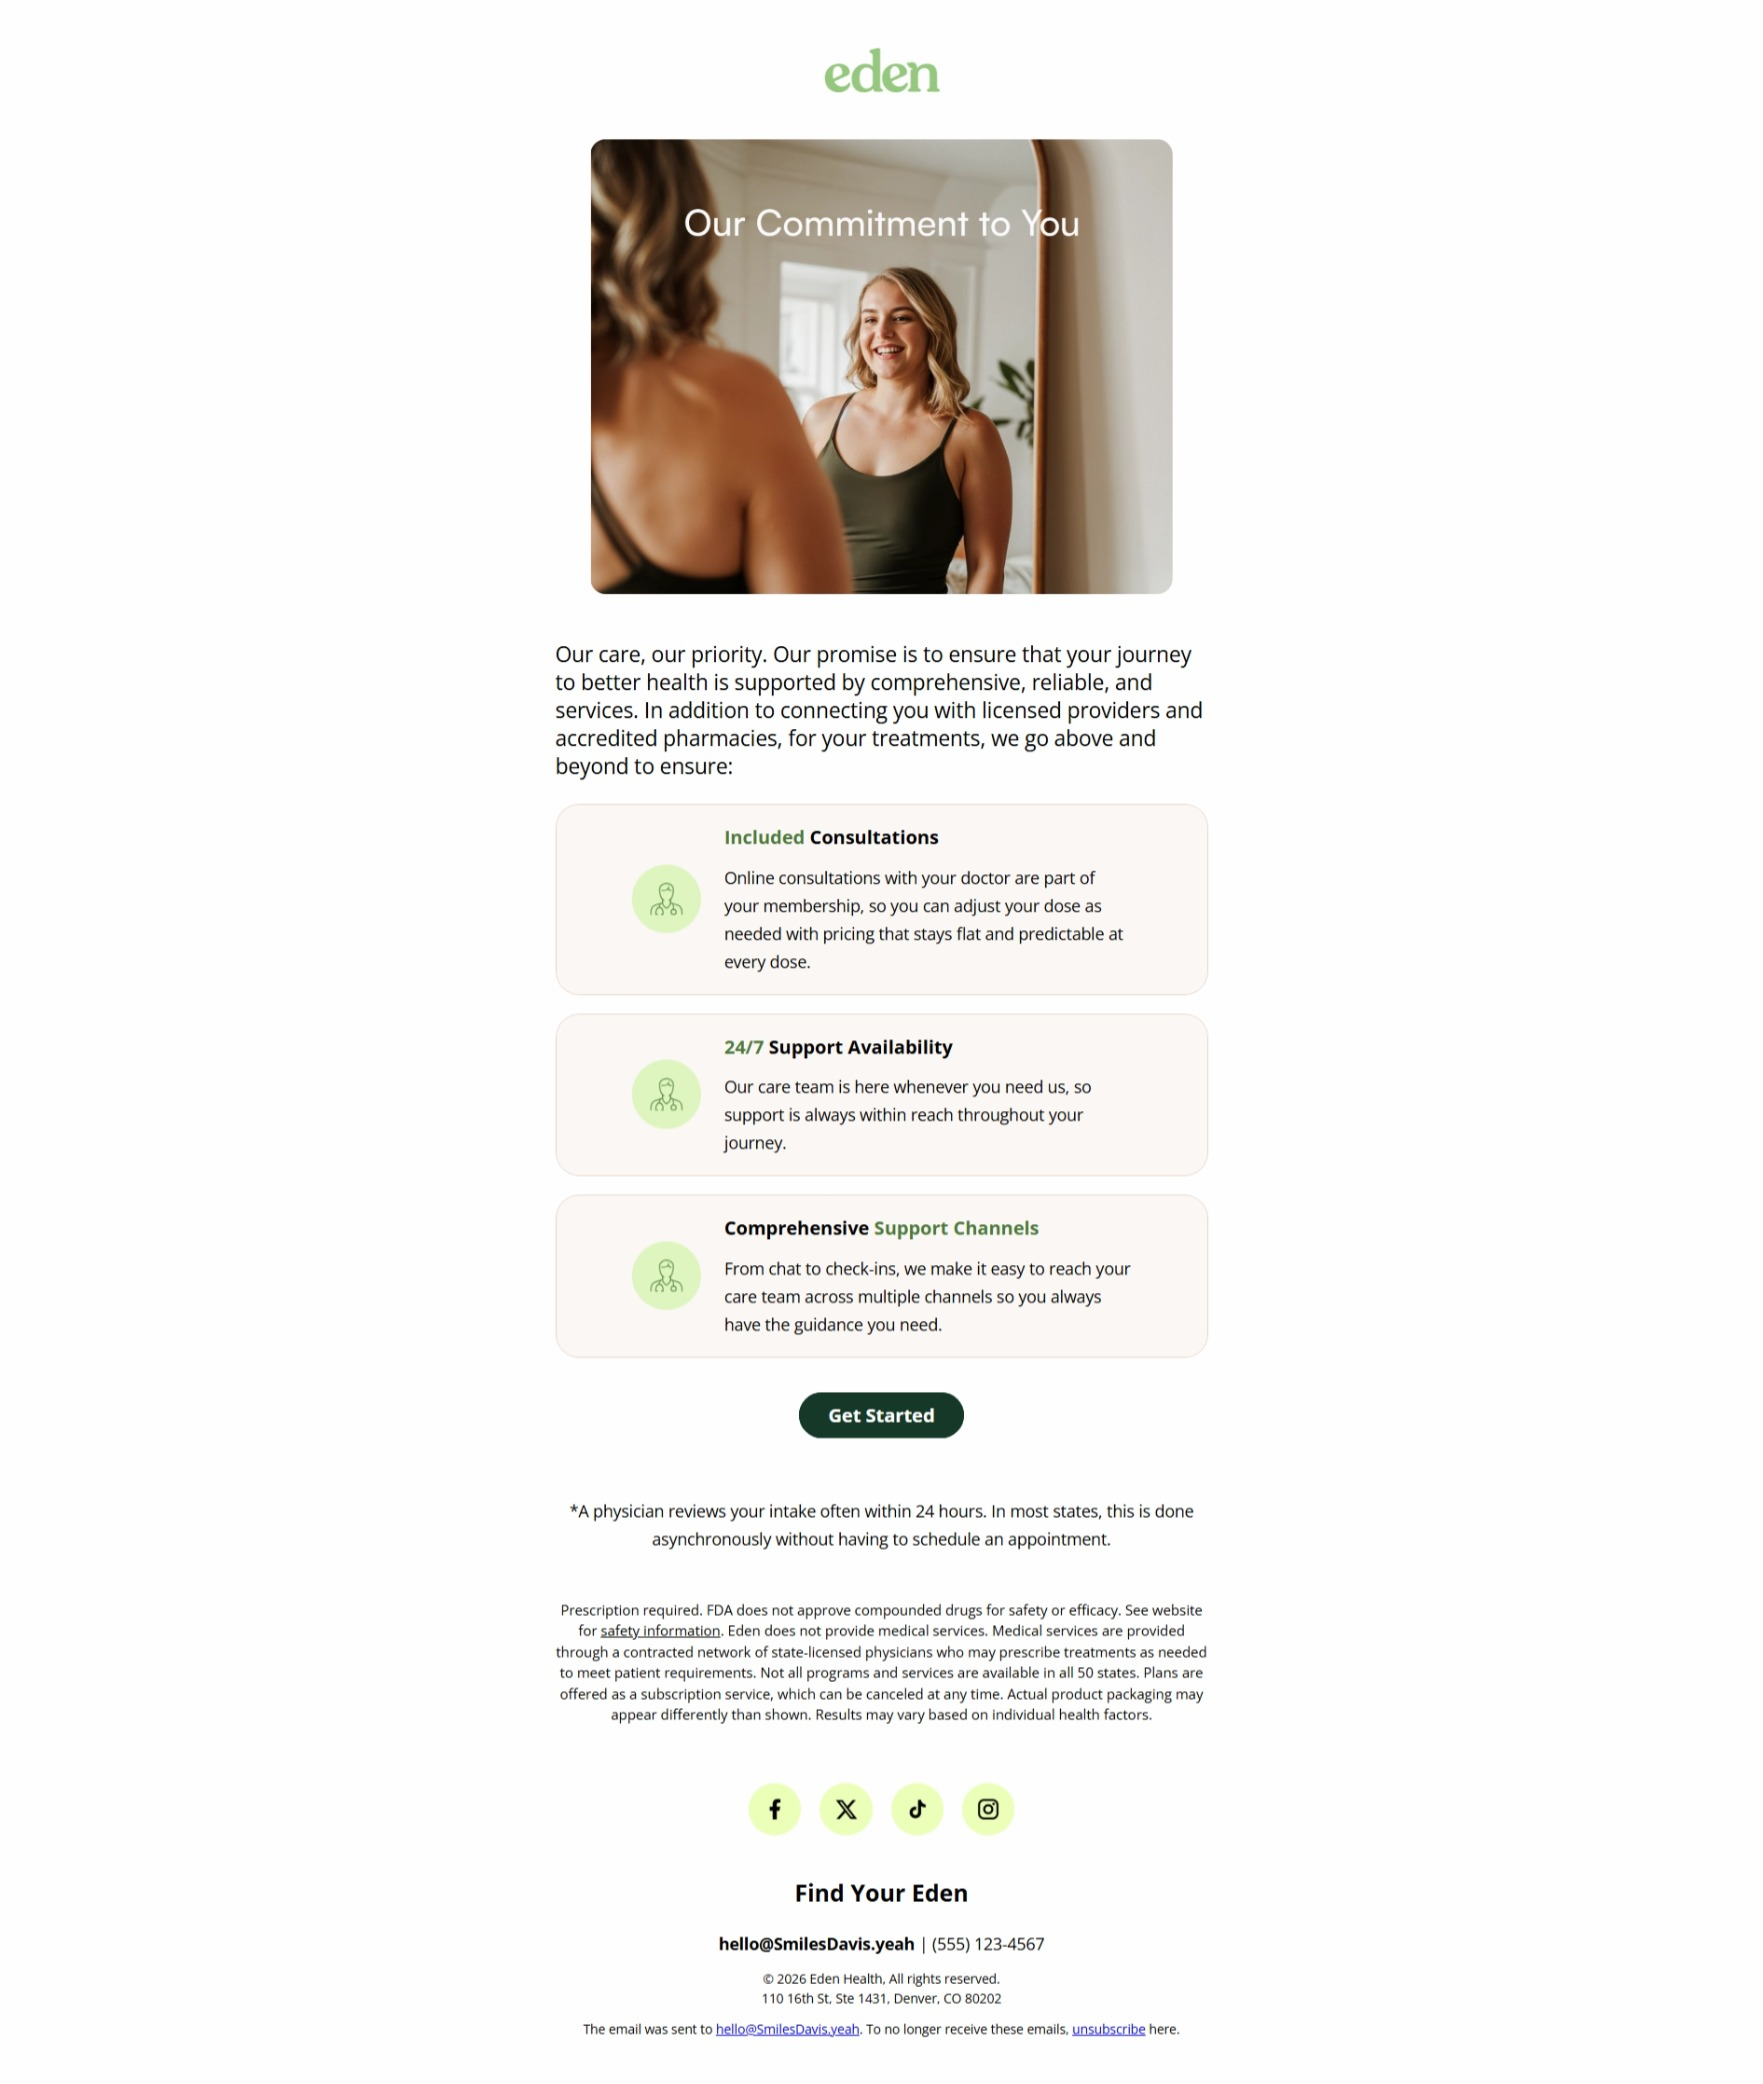
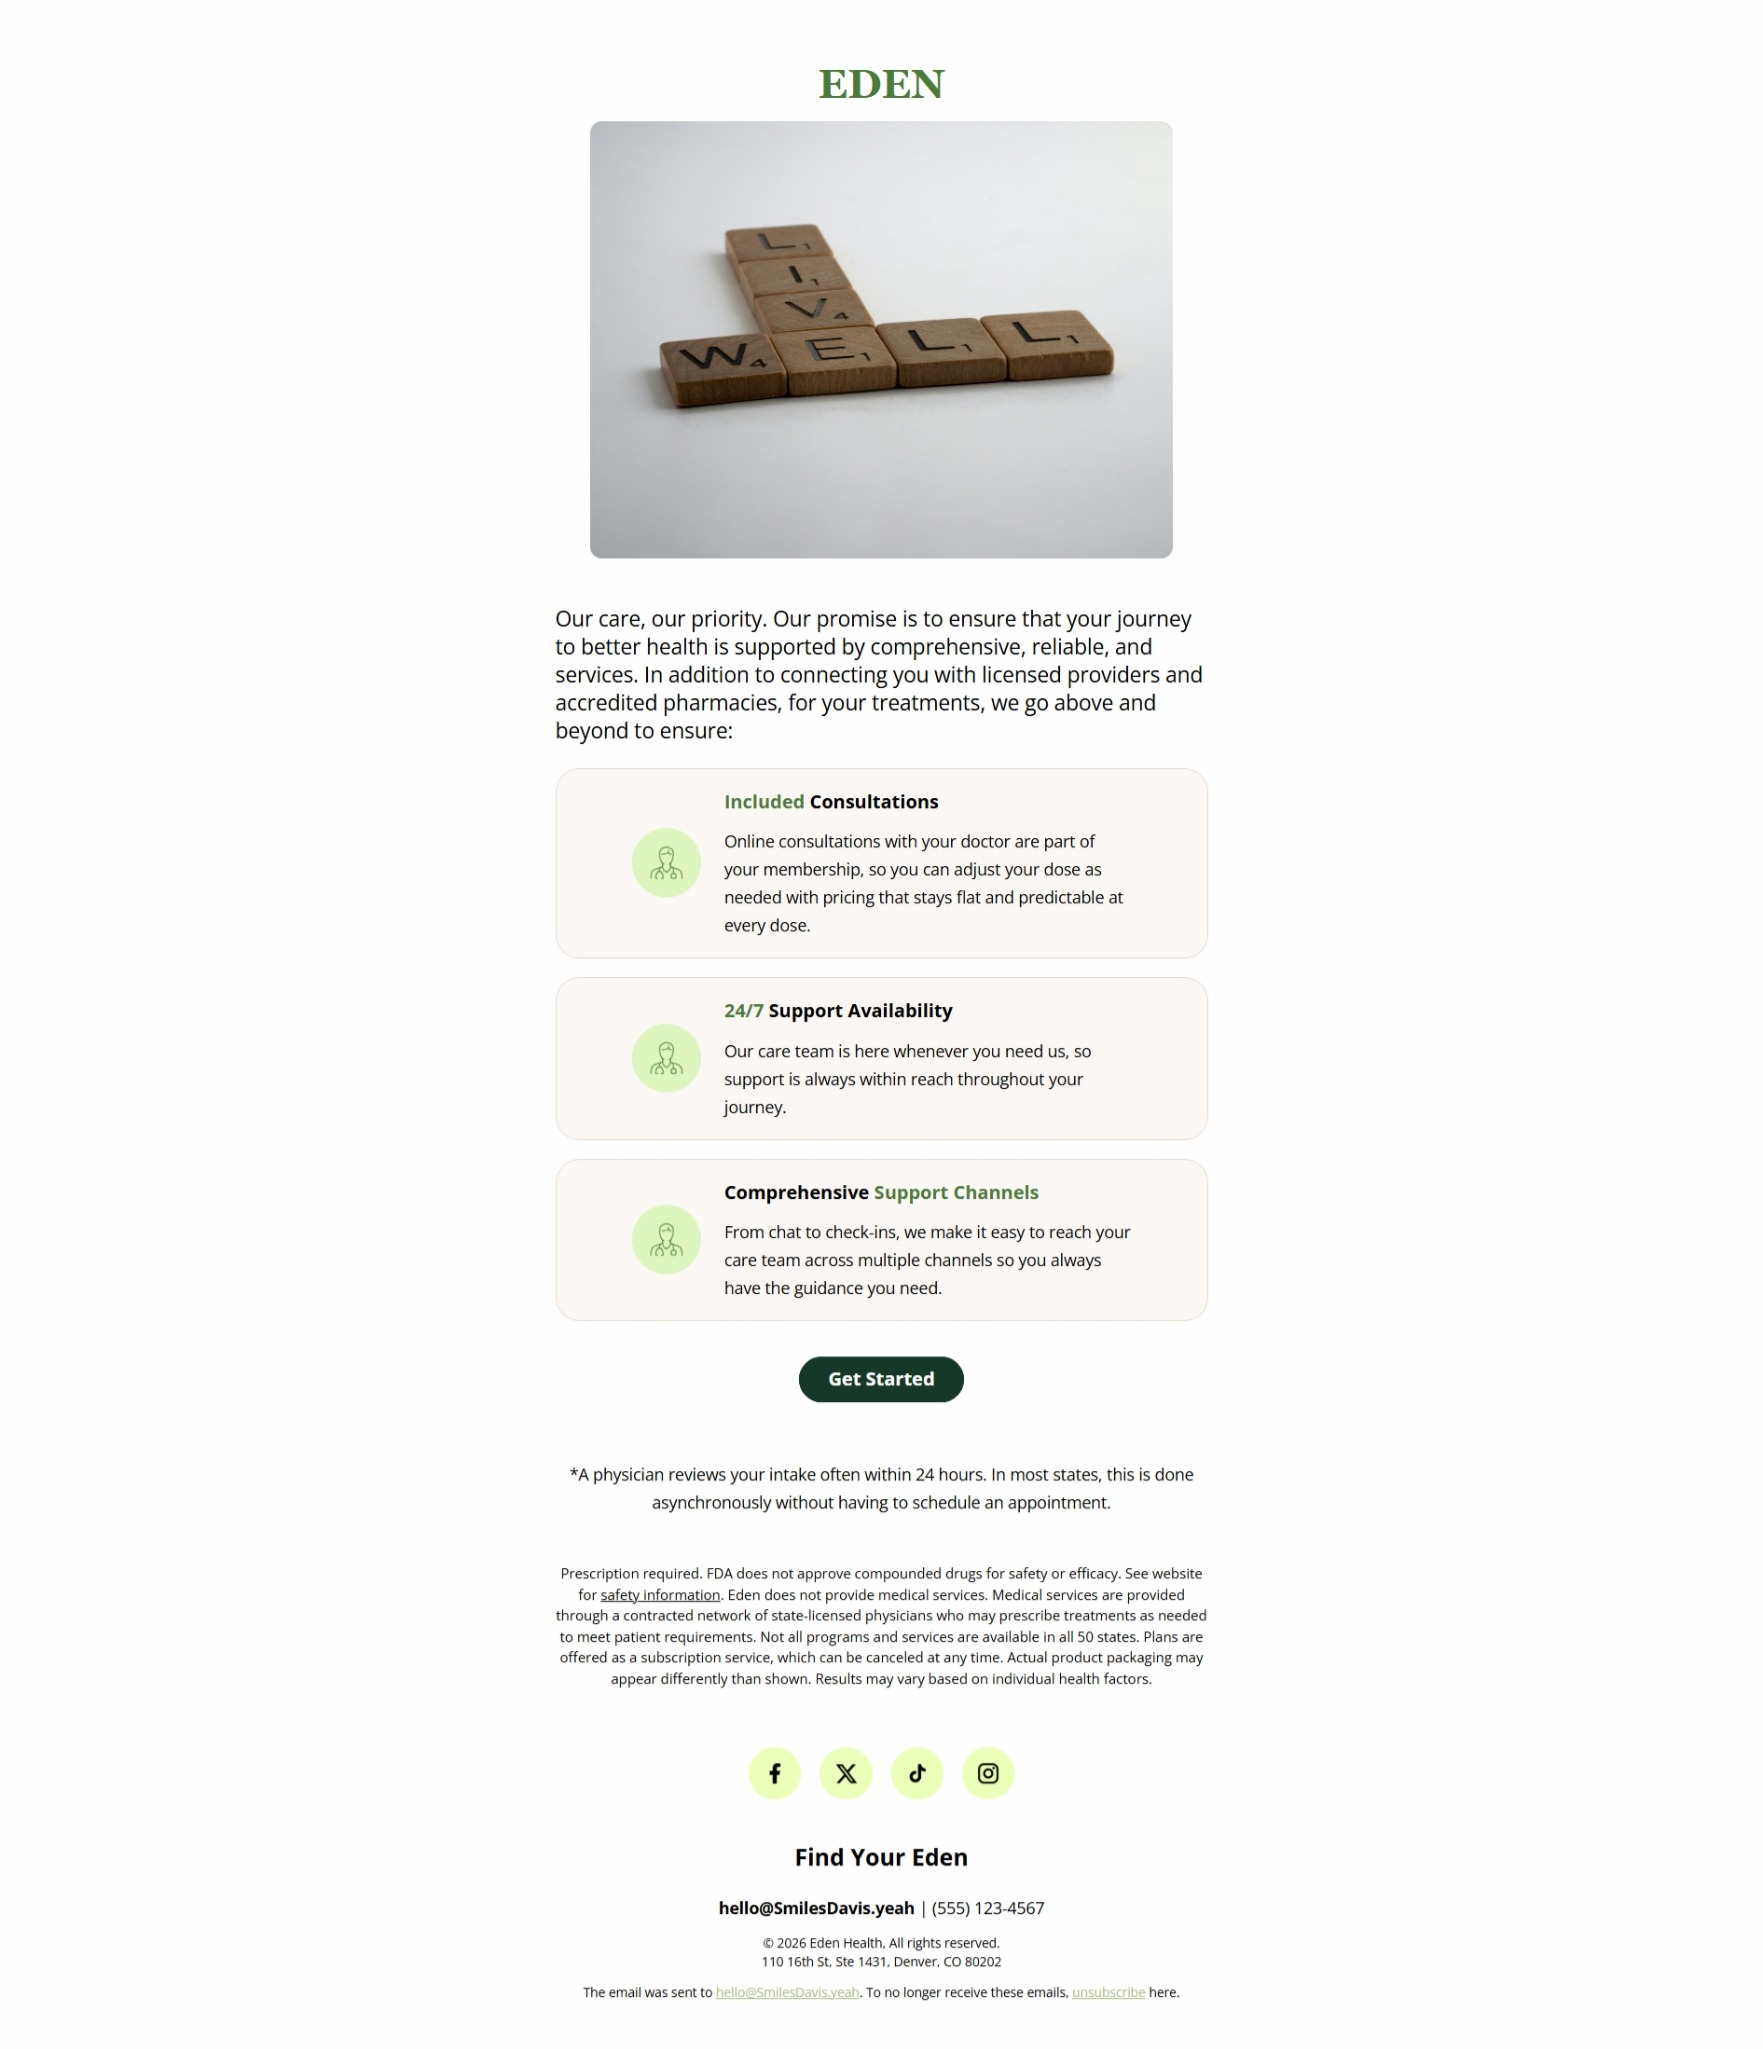
Add files via upload

Changed region(s): [[0.312, 0.0312, 0.6863, 0.9995]]

diff --git a/README.md b/README.md
@@ -4,7 +4,7 @@ A responsive marketing email recreated using MJML.
 
 ## Preview
 
-![Eden health email recreation](eden-email-preview.jpeg)
+![Eden health email recreation](images/eden-email-preview.jpeg)
 
 ## Built With
 
